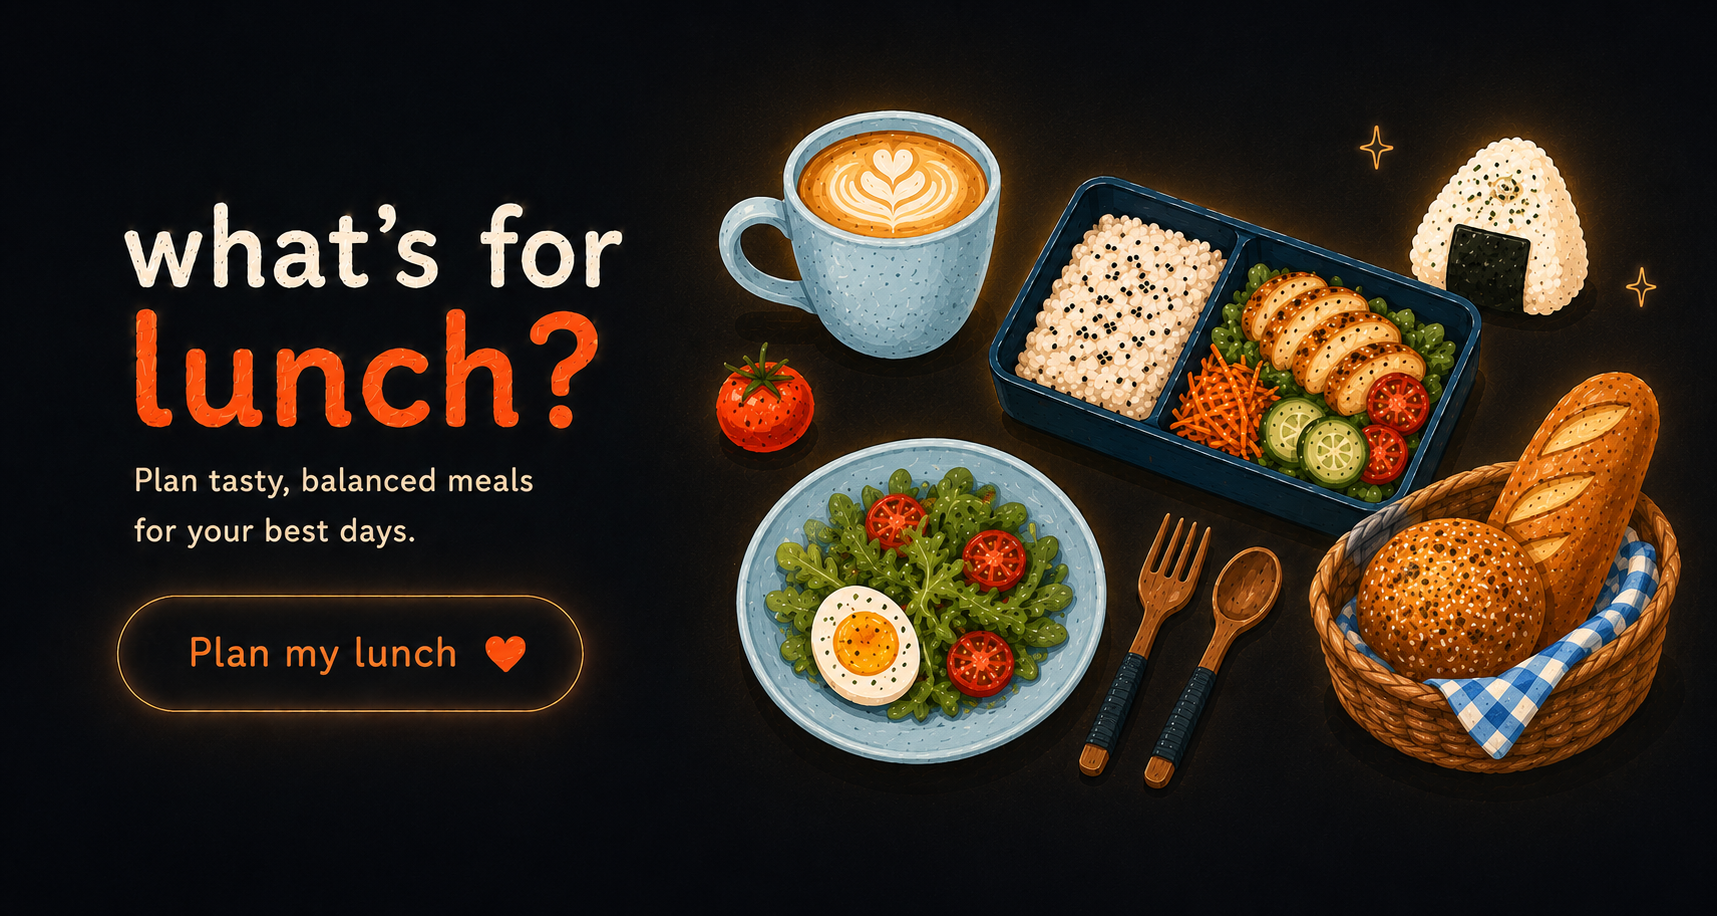
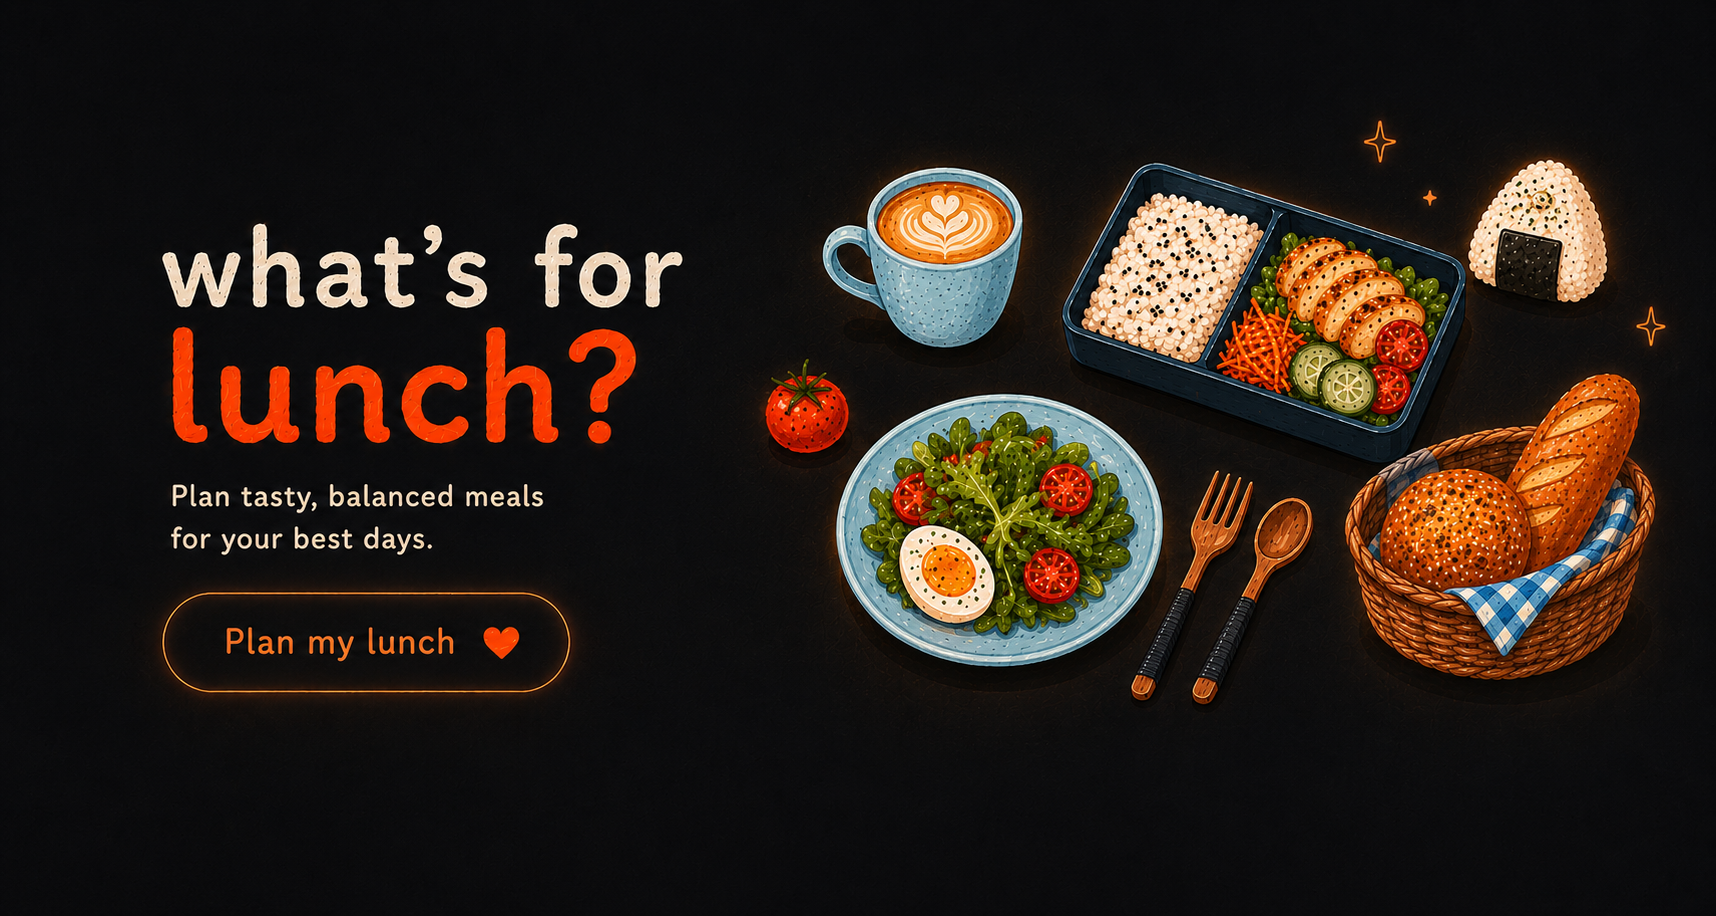
Fix corrupted localStorage crash and defensive array guards

diff --git a/src/storage.ts b/src/storage.ts
@@ -6,8 +6,9 @@ const HISTORY_KEY = 'food-selector-history'
 export function loadFoods(): Food[] {
   try {
     const raw = localStorage.getItem(FOODS_KEY)
-    return raw ? JSON.parse(raw) : []
-  } catch {
+    const parsed = raw ? JSON.parse(raw) : []
+    return Array.isArray(parsed) ? parsed : []
+  } catch (e) {
     return []
   }
 }
@@ -19,8 +20,9 @@ export function saveFoods(foods: Food[]): void {
 export function loadHistory(): HistoryEntry[] {
   try {
     const raw = localStorage.getItem(HISTORY_KEY)
-    return raw ? JSON.parse(raw) : []
-  } catch {
+    const parsed = raw ? JSON.parse(raw) : []
+    return Array.isArray(parsed) ? parsed : []
+  } catch (e) {
     return []
   }
 }

diff --git a/src/components/FoodPicker.tsx b/src/components/FoodPicker.tsx
@@ -16,6 +16,8 @@ interface FoodPickerProps {
 type PickerPhase = 'idle' | 'picked' | 'confirming' | 'success'
 
 export default function FoodPicker({ foods, history, onPick, exclusionDays, roomId, onViewHistory }: FoodPickerProps) {
+  const safeFoods = Array.isArray(foods) ? foods : []
+  const safeHistory = Array.isArray(history) ? history : []
   const [selectedMeal, setSelectedMeal] = useState<MealType>('lunch')
   const [result, setResult] = useState<Food | null>(null)
   const [phase, setPhase] = useState<PickerPhase>('idle')
@@ -23,11 +25,11 @@ export default function FoodPicker({ foods, history, onPick, exclusionDays, room
   function getEligibleFoods(): Food[] {
     const cutoff = Date.now() - exclusionDays * 86400000
     const recentFoodIds = new Set(
-      history
+      safeHistory
         .filter(h => h.timestamp > cutoff && h.mealType === selectedMeal)
         .map(h => h.foodId)
     )
-    return foods.filter(f => f.mealTypes.includes(selectedMeal) && !recentFoodIds.has(f.id))
+    return safeFoods.filter(f => f.mealTypes.includes(selectedMeal) && !recentFoodIds.has(f.id))
   }
 
   const pickRandom = useCallback(() => {